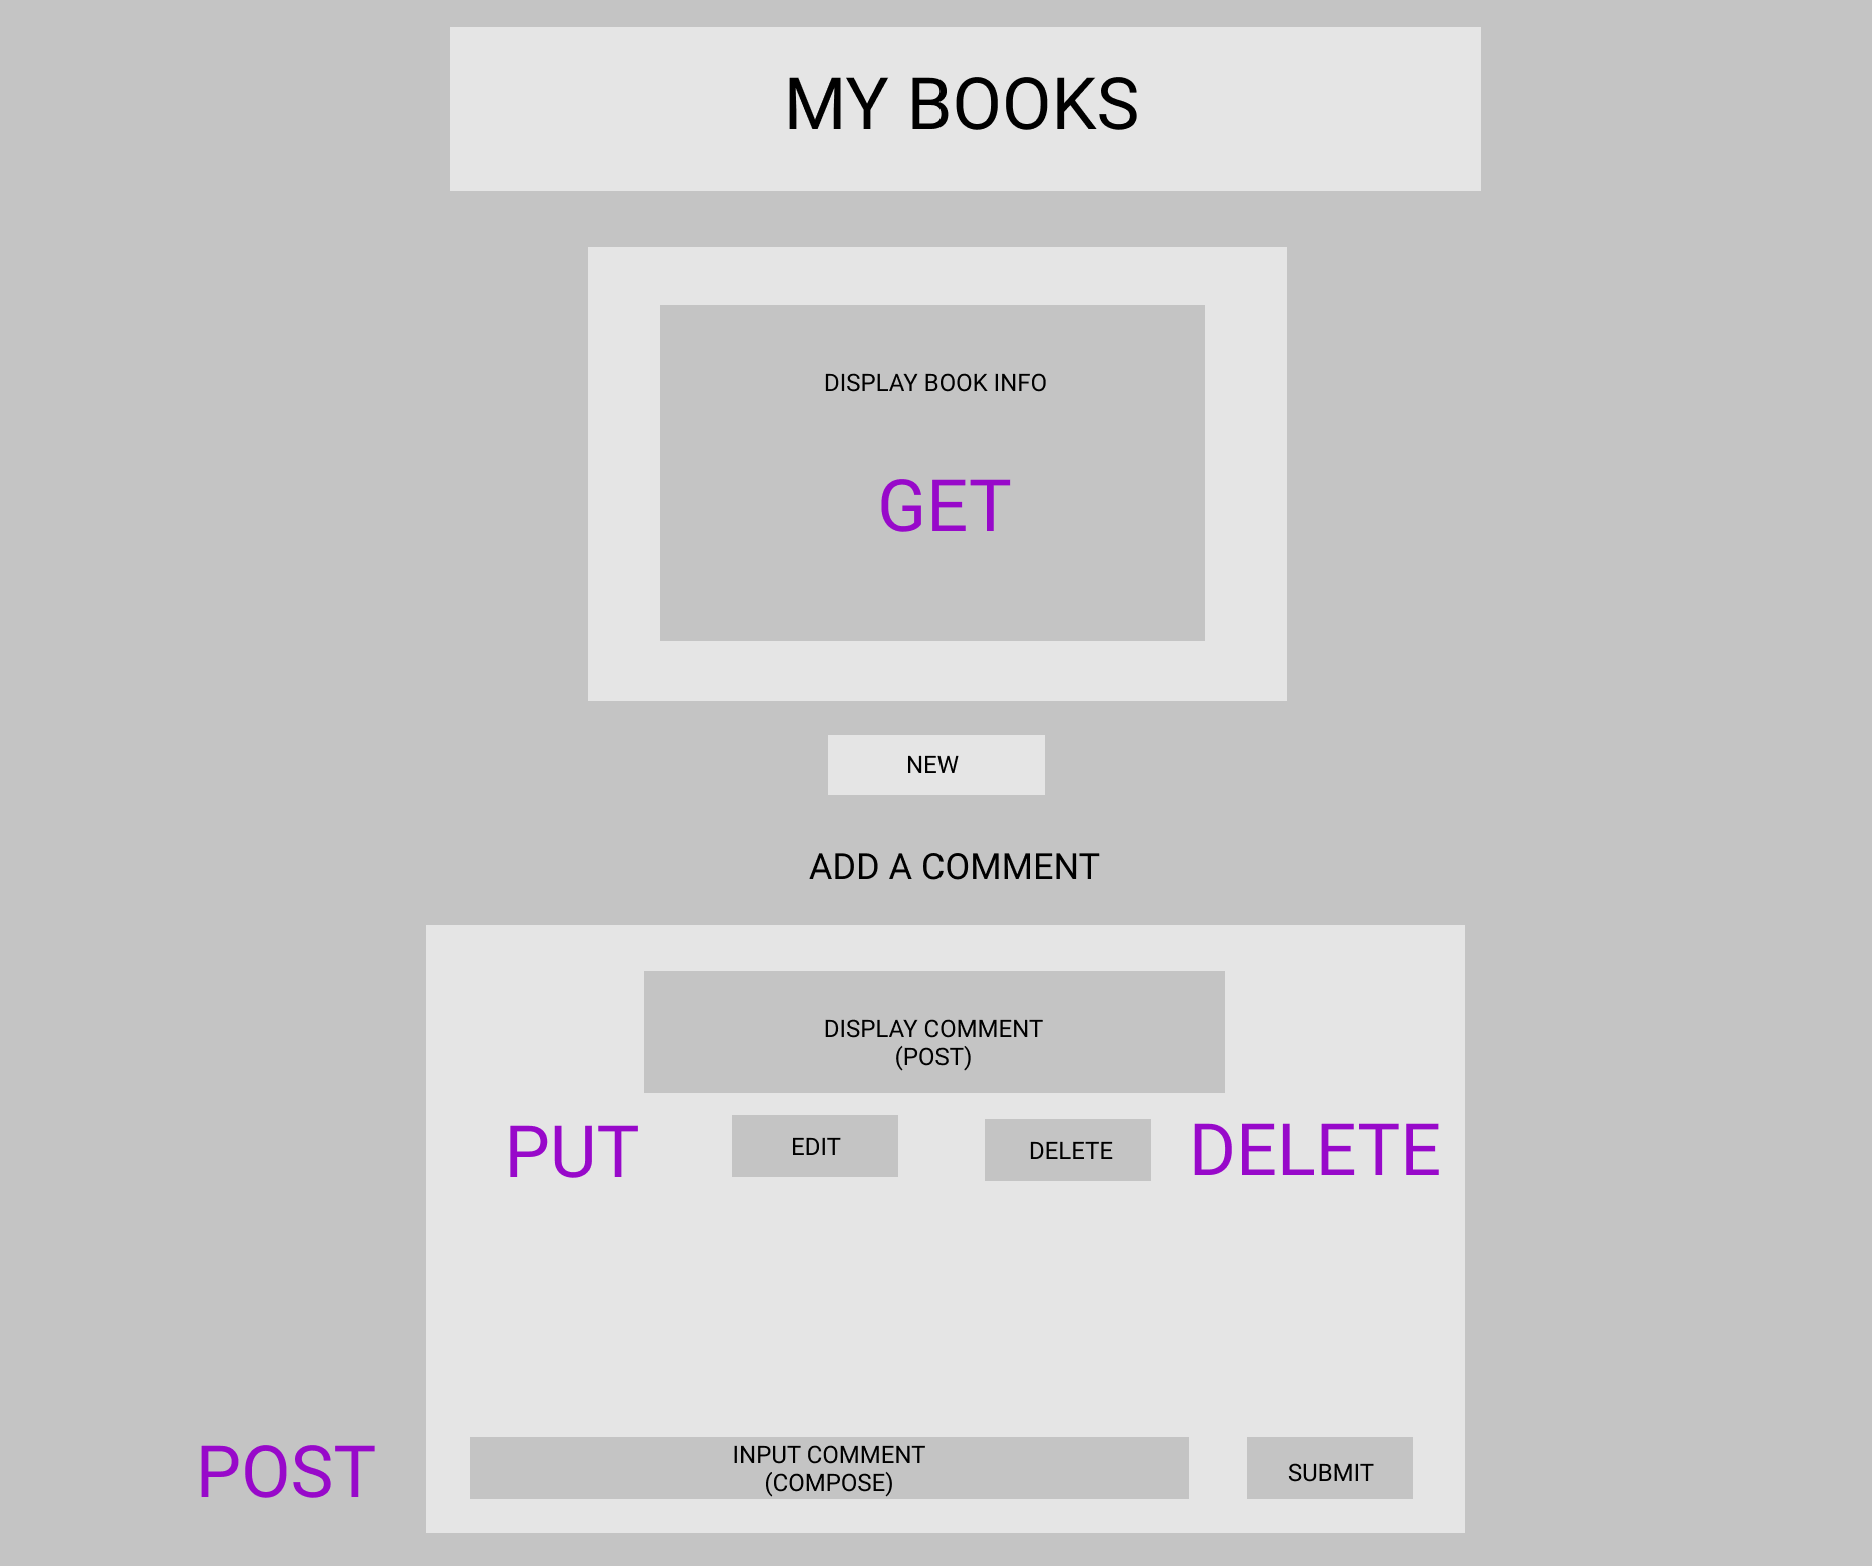
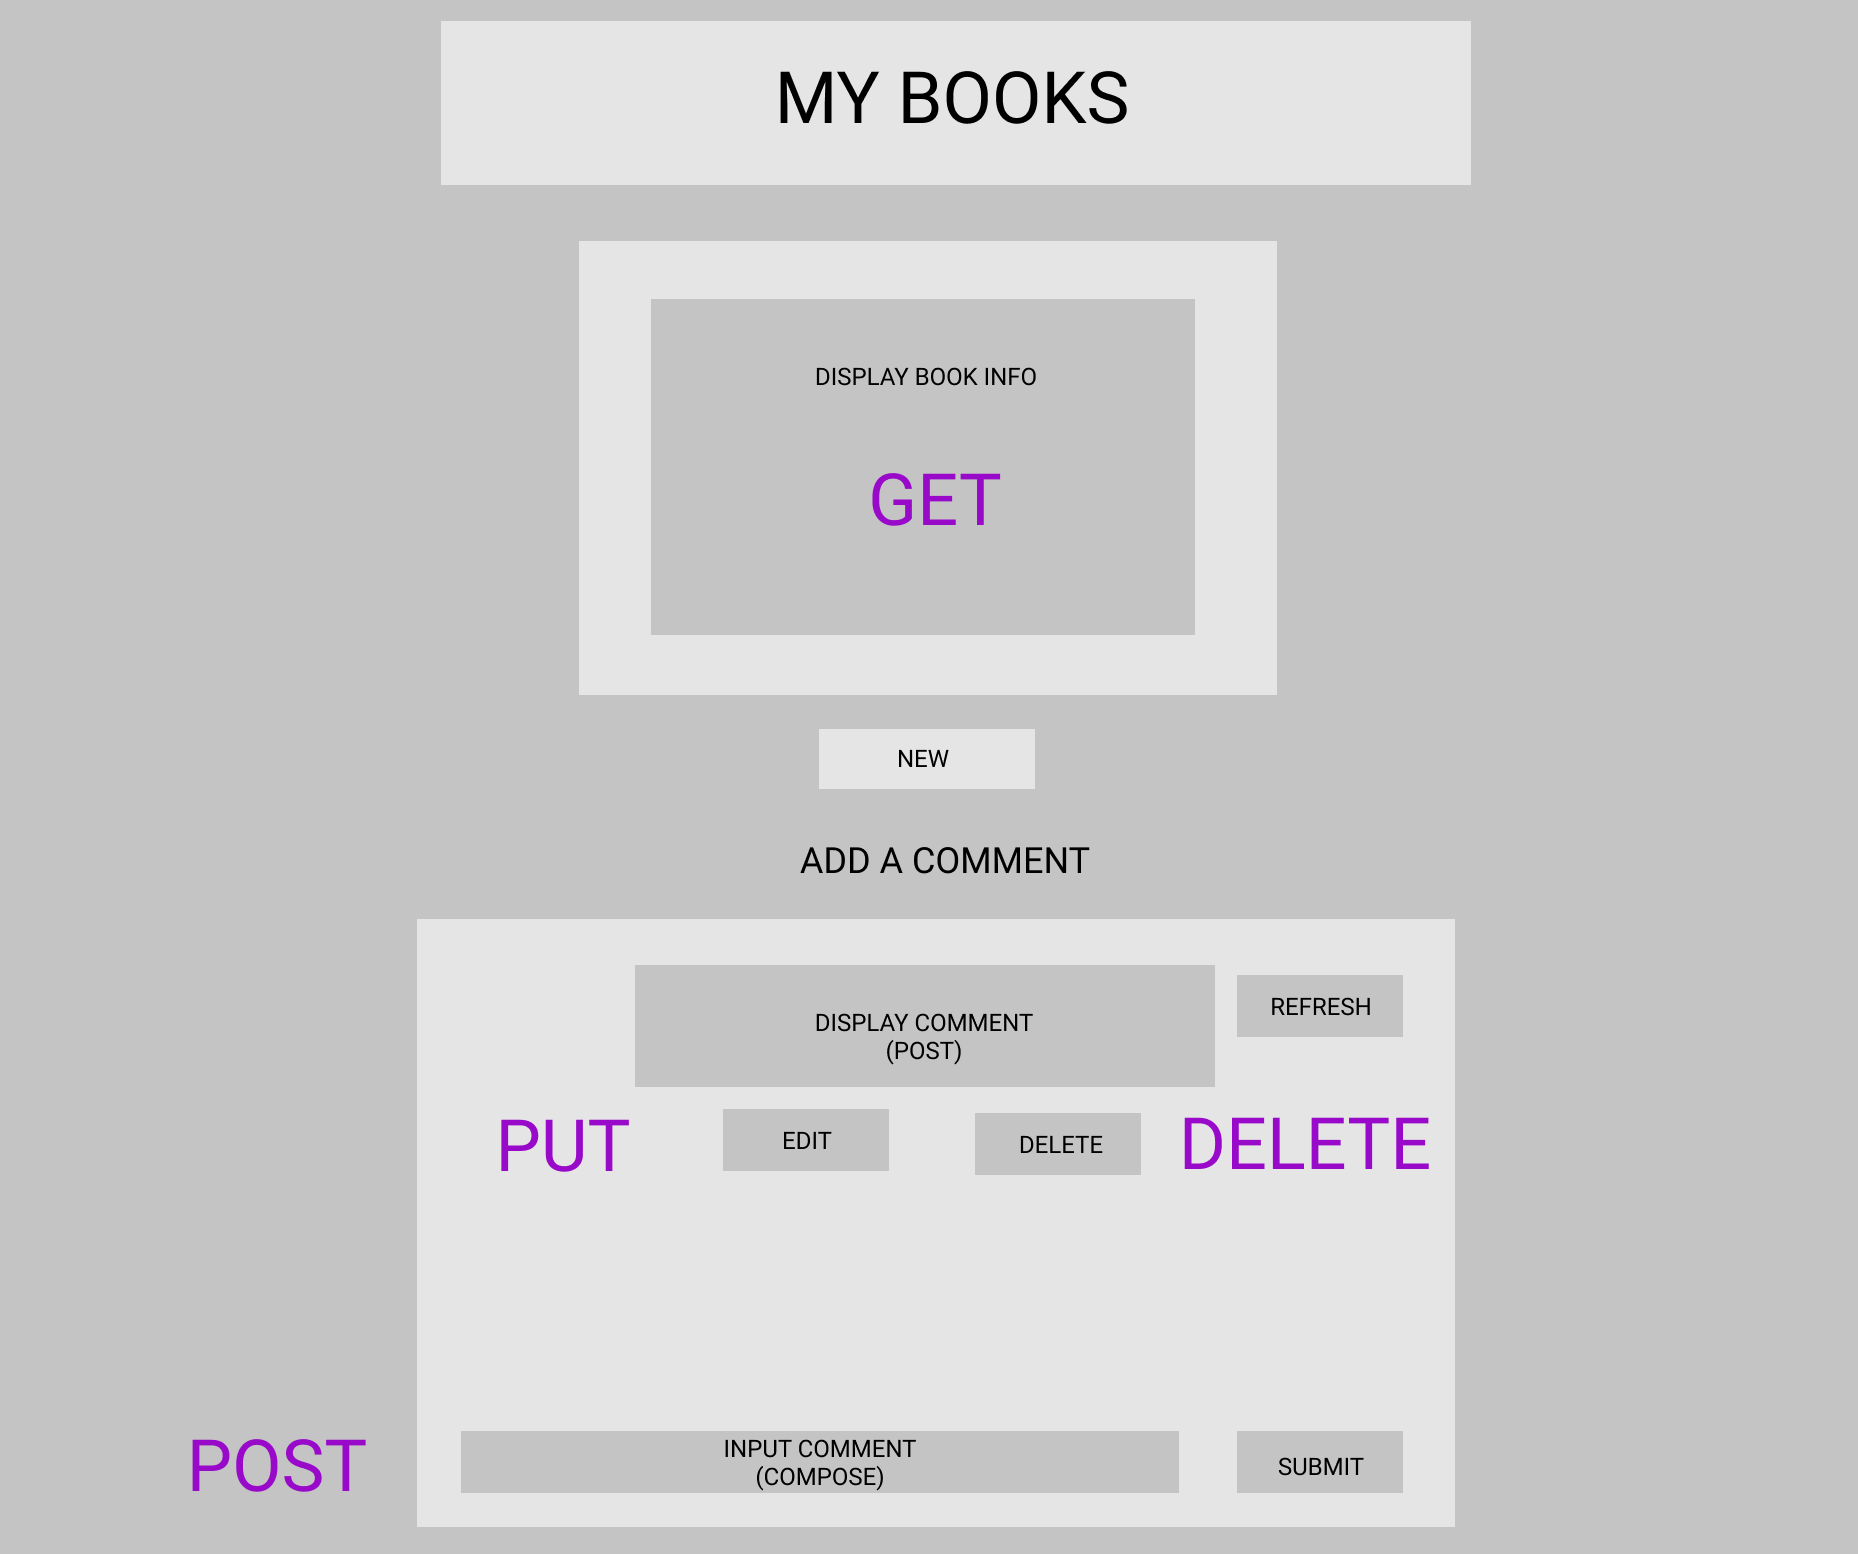
mvp CRUD finished

diff --git a/src/components/Comment.js b/src/components/Comment.js
@@ -14,6 +14,7 @@ class Comment extends Component {
         this.updatePost = this.updatePost.bind(this)
         this.deletePost = this.deletePost.bind(this)
         this.createPost = this.createPost.bind(this)
+        this.refreshComments = this.refreshComments.bind(this)
     }
 
     componentDidMount(){
@@ -56,10 +57,22 @@ class Comment extends Component {
         })
     }
 
+    refreshComments(){
+        axios.delete('/api/comments')
+        .then(res => {
+            this.setState({posts: res.data})
+        })
+        .catch(res => {
+            alert('error refreshing comments')
+        })
+    }
+
     render(){
         return (
             <div>
                 <h3>Add a Comment</h3>
+
+                <button onClick={this.refreshComments}>Refresh</button>
 
                 <div className="post-body">
                      {this.state.posts.map(post => (

diff --git a/src/App.js b/src/App.js
@@ -18,7 +18,7 @@ class App extends Component {
   componentDidMount(){
   axios.get('/api/books')
         .then((res) => {
-          this.setState({books: res.data[0]})  //can i make it so i don't have to specify index?? 
+          this.setState({books: res.data[0]})  
         })
         .catch(res => {
           console.log('error')
@@ -31,8 +31,7 @@ class App extends Component {
     <div className="App">
 
        <Header/>
-
-      {/*if there's time, could make this it's own component, passing info through props; BookDisplay component (functional) */}
+       
       <div className="book-display"> 
     
         <div className="title-author">

diff --git a/server/controllers/comments.js b/server/controllers/comments.js
@@ -1,6 +1,8 @@
-const comment = [{id: 0, text: 'This book is great'}, {id: 1, text: 'One of the best books of all time!'}]
+// const comment = [{id: 0, text: 'This book is great'}, {id: 1, text: 'One of the best books of all time!'}]
 
-let id = 2
+let comment = []
+
+let id = 0
 
 module.exports = {
     //GET
@@ -43,6 +45,13 @@ module.exports = {
         }
 
         comment.splice(index, 1)
+
+        res.status(200).send(comment)
+    },
+
+    //DELETE
+    refreshComments: (req, res) => {
+        comment.splice(0, comment.length)
 
         res.status(200).send(comment)
     }

diff --git a/src/components/Post.js b/src/components/Post.js
@@ -33,7 +33,7 @@ class Post extends Component {
                               hideEdit= {this.hideEdit}
                               updatePostFn= {updatePostFn}  />
                         :
-                        <span className="post-text">{this.props.text}</span>
+                        <span className="comment-text">{this.props.text}</span>
                     }
                 </div>
                 

diff --git a/server/index.js b/server/index.js
@@ -18,5 +18,8 @@ app.put('/api/comments/:id', commentCtrl.editComment)
 
 app.delete('/api/comments/:id', commentCtrl.deleteComment)
 
+//Refresh comments for a new book
+app.delete('/api/comments', commentCtrl.refreshComments)
+
 //Get dummy comments for display
-app.get('/api/comments', commentCtrl.getComment)
+// app.get('/api/comments', commentCtrl.getComment)

diff --git a/src/components/Edit.js b/src/components/Edit.js
@@ -21,6 +21,7 @@ class Edit extends Component {
         updatePostFn(id, text)
         hideEdit()
     }
+    //this function is passing the value of the event all the way back up to the parent-parent (Comment.js) through an event. This is how we are able to send them off as params and body to the server for our requests
 
     render(){
         return(

diff --git a/src/components/Compose.js b/src/components/Compose.js
@@ -13,7 +13,7 @@ class Compose extends Component {
 
     updateText(text) {
         this.setState({text: text})
-    }  //is the text being passed in the same as the e.target.value from the onChange??
+    } 
 
     createPost() {
         const {text} = this.state    

diff --git a/server/controllers/newBook.js b/server/controllers/newBook.js
@@ -17,3 +17,5 @@ module.exports = {
         res.status(200).send(newBook)
     }
 }
+
+//what functionality could I add so it won't crash at the end of the book data array?

diff --git a/README.md b/README.md
@@ -9,20 +9,23 @@
     - POST: make a comment about a book
     - PUT: change a comment about a book
     - DELETE: remove a comment about a book
+    - DELETE: refresh all comments so comments about a new book can be made
 
 ### Functionality
 - There will be a header at the top of the page that displays the name of the app
 - When the app loads, an image of a book will display below the header.
-- Below the the book information will be a button called new that allows you to get a new book to display
-- Next there is a section for adding comments
-    - Each comment is displayed in the order they are made
-        - Each comment has an edit or delete option below it
+- Below the the book information will be a button called new that allows you to get a new book to display.
+- Next there is a section for adding comments:
+    - There is a refresh button that will clear out comments from a previous book so that comments about the new book can be made.
+    - Each comment is displayed in the order they are made.
+        - Each comment has an edit or delete option below it:
             - The Edit button opens up the comment to be updated
             - The Delete button removes the comment
 
 ### Endpoints
 - GET: fetch one random book from our book data array 
 - DELETE: remove a comment
+- DELETE: remove all previous comments 
 - PUT: change a comment
 - POST: add a new comment
 
@@ -32,7 +35,7 @@
     - Renders the Header component and the Comment component
 - Header.js: functional; child of App.js
 - Comment.js: stateful; child of App.js 
-    - Holds the comment information and methods for updating (PUT), creating (POST), and deleting (POST)
+    - Holds the comment information and methods for updating (PUT), creating (POST), and deleting (DELETE)
     - Renders the Post component and the Compose component
 - Post.js: stateful; child of Comment.js
     - Holds the toggle information for the editing view
